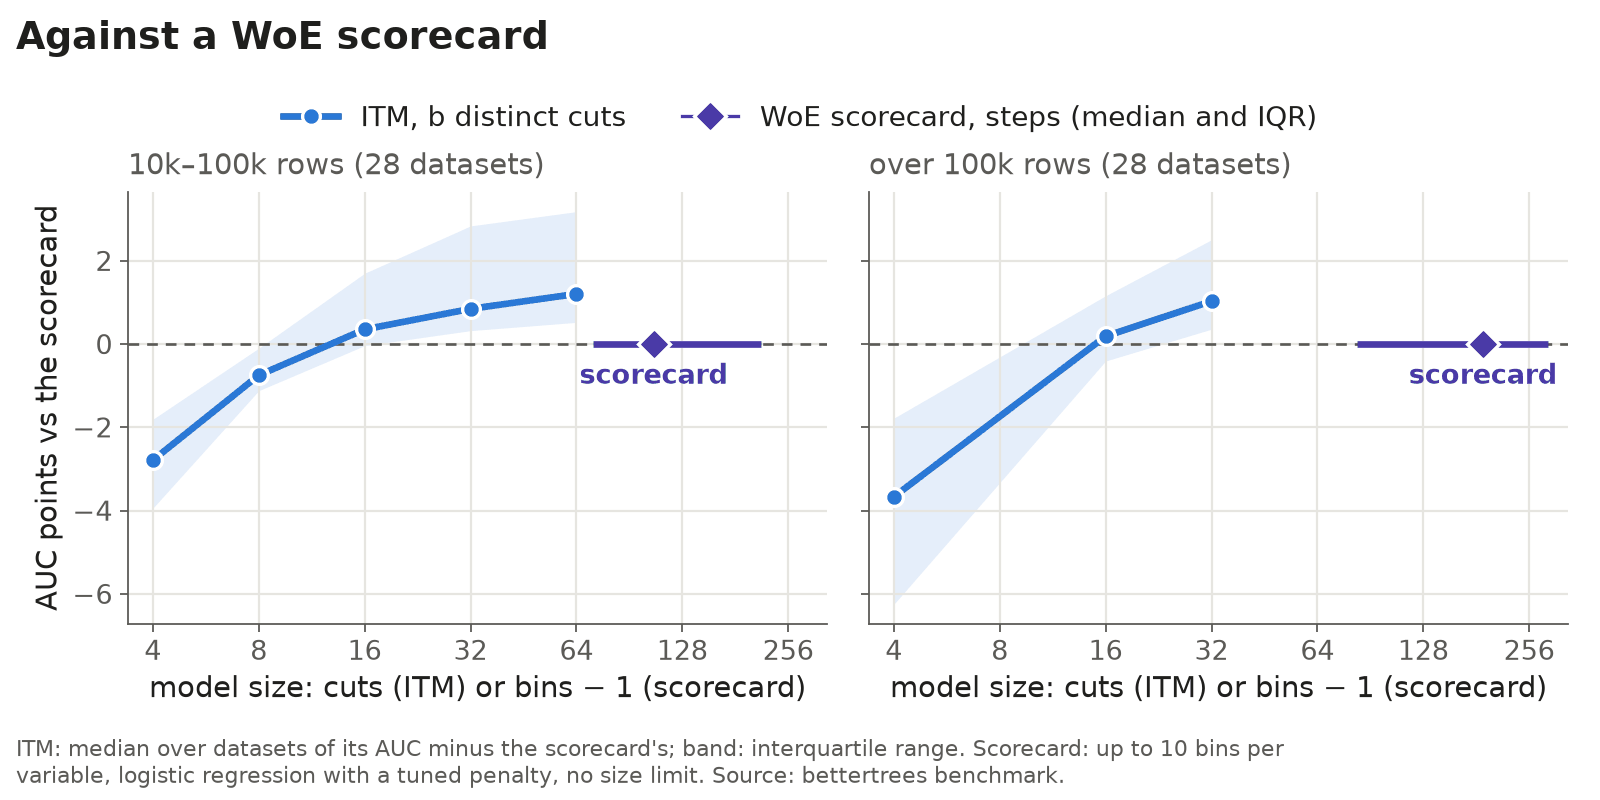
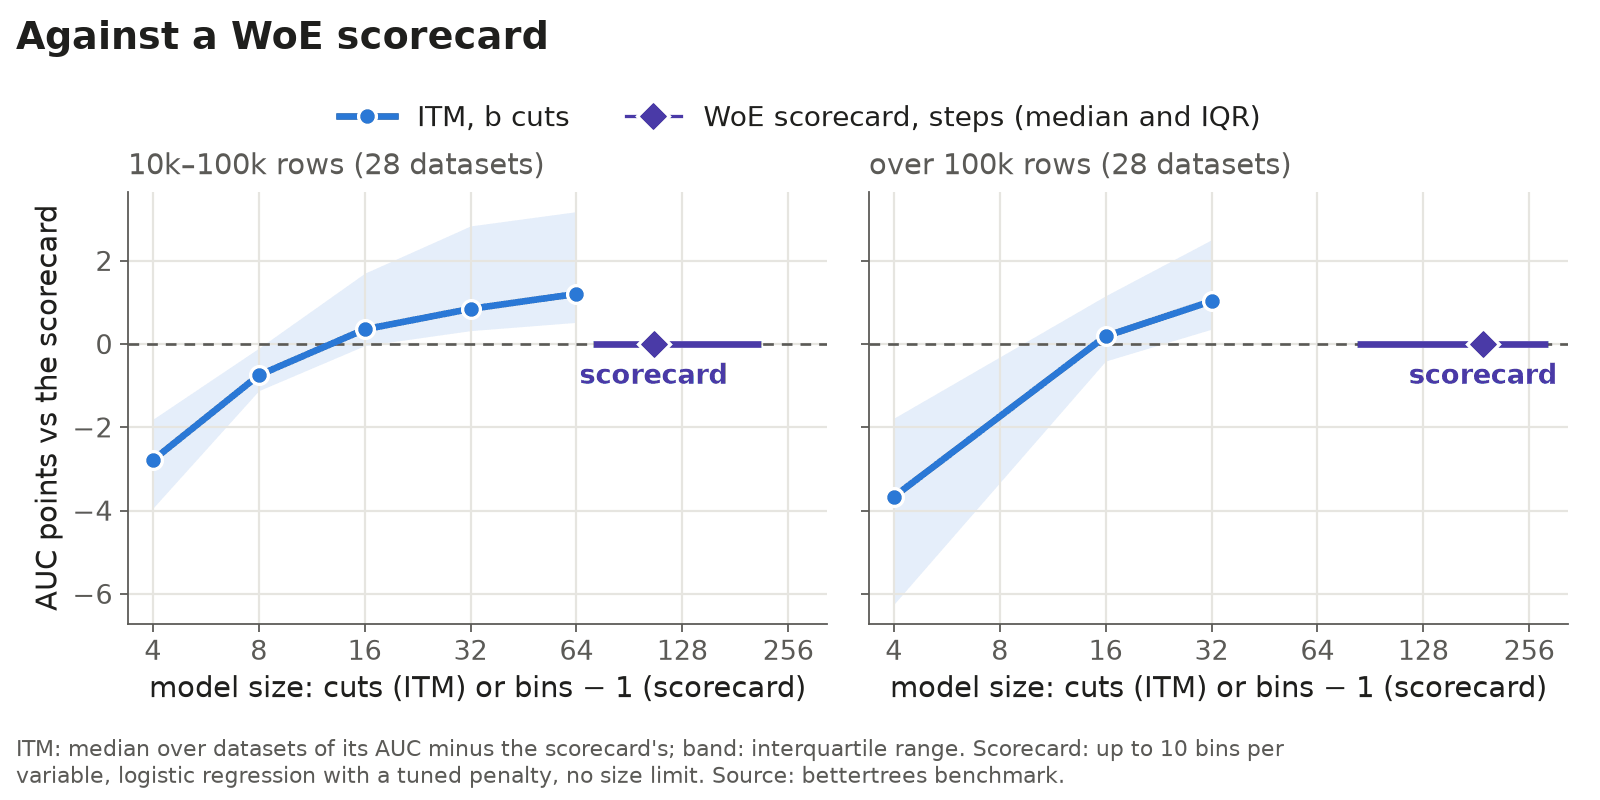
Docs: max_splits counts cuts (internal nodes), not distinct (feature, threshold) pairs
The growth loop performs one split operation per iteration, so an ITM has at most b cuts and at
most b distinct pairs (a pair may repeat). README, CHANGELOG and the docstrings of
InterleavedTreeClassifier and BudgetClassifier now say so; the README figures say "cuts" on the
axis and in the legend (regenerated from the same benchmark data, numbers unchanged).
CompactTreeBooster does count the cuts of its merged model, and keeps its wording.

Changed region(s): [[0.1562, 0.125, 0.8125, 0.1562]]

diff --git a/src/bettertrees/sums/smalltrees.py b/src/bettertrees/sums/smalltrees.py
@@ -385,15 +385,16 @@ class InterleavedTreeClassifier(_AdditiveTrees):
     classification.
 
     ``logit(p) = base + sum_k tree_k(x)``. The trees are small and share one budget of
-    distinct cuts (``max_splits``). At each step the best cut by Newton gain
+    cuts (``max_splits``). At each step the best cut by Newton gain
     ``G^2 / (H + lam)``, in any leaf of any tree or as the root of a new tree, against
     the margin of the other trees, enters the model, and then every leaf is
     re-estimated (one backfitting sweep by default). The number and shape of the trees
     come from the data.
 
     The growth rule comes from FIGS (Tan et al., 2022); re-fitting all the leaves after
-    each cut comes from RGF (Johnson and Zhang, 2014). The budget is counted in
-    distinct cuts.
+    each cut comes from RGF (Johnson and Zhang, 2014). The budget counts cuts (internal
+    nodes, one per split operation); a (feature, threshold) pair may repeat, so the number
+    of distinct pairs is at most the budget.
 
     The constructor's defaults are a full Newton step (``learning_rate=1.0``) and
     ``lam="auto"`` (2 * max_splits), with no cap on the step. The rule the benchmark
@@ -407,7 +408,9 @@ class InterleavedTreeClassifier(_AdditiveTrees):
     Parameters
     ----------
     max_splits : int, default=16
-        Total number of cuts (may stop earlier if no cut has a positive gain).
+        Total number of cuts, i.e. internal nodes over all trees (may stop earlier if no cut
+        has a positive gain). The number of distinct (feature, threshold) pairs is at most
+        ``max_splits``.
     max_trees : int or None, default=None
         Maximum number of trees.
     lam : float or "auto", default="auto"

diff --git a/src/bettertrees/sums/budget.py b/src/bettertrees/sums/budget.py
@@ -34,7 +34,9 @@ class BudgetClassifier(ClassifierMixin, BaseEstimator):
     Parameters
     ----------
     max_splits : int >= 1, default=16
-        The cut budget, in distinct cuts.
+        The cut budget: the model has at most ``max_splits`` cuts (internal nodes, one per
+        split operation). A (feature, threshold) pair may repeat, so the number of distinct
+        pairs is at most the budget.
 
     Attributes
     ----------

diff --git a/README.md b/README.md
@@ -9,7 +9,7 @@ Version 0.1.0 is a release candidate; the first public release is being prepared
 ![Python 3.10+](https://img.shields.io/badge/python-3.10%2B-blue.svg)
 [![CI](https://github.com/rafapras/bettertrees/actions/workflows/ci.yml/badge.svg)](https://github.com/rafapras/bettertrees/actions/workflows/ci.yml)
 
-![AUC against the number of distinct cuts: the ITM above LightGBM and CART of the same size](https://raw.githubusercontent.com/rafapras/bettertrees/main/docs/images/frontier.png)
+![AUC against the number of cuts: the ITM above LightGBM and CART of the same size](https://raw.githubusercontent.com/rafapras/bettertrees/main/docs/images/frontier.png)
 
 ## Why
 
@@ -17,7 +17,7 @@ Where a decision must be explained line by line, as in credit scoring and in the
 sciences, the binding constraint is the size of the model: a scorecard with a few dozen bins, a
 tree with a few dozen nodes. bettertrees asks how much predictive power fits in each cut. Its main
 model, the Interleaved Tree Model (ITM), is a logit sum of a few small trees that share one budget
-of distinct cuts. You set the budget; a fixed rule sets everything else, so there is nothing to
+of cuts. You set the budget; a fixed rule sets everything else, so there is nothing to
 tune per dataset.
 
 ## Install
@@ -204,10 +204,11 @@ small tree with values in log-odds. Growth starts with no trees. At each step ev
 tree, and the root of a new tree, is a candidate; the cut with the largest Newton gain
 `G_l²/(H_l + λ) + G_r²/(H_r + λ) − G²/(H + λ)`, at the margin of the other trees, is added; its
 two leaves take a Newton step `−G/(H + λ)`, and one sweep then refits every leaf of every tree.
-Growth stops at b distinct (feature, threshold) pairs. The growth across trees comes from FIGS
+Growth stops after b cuts (internal nodes, one per split operation); a (feature, threshold)
+pair may repeat, so the model has at most b distinct pairs. The growth across trees comes from FIGS
 (Tan et al.), the refit of all leaves from RGF (Johnson and Zhang); the ITM replaces FIGS's
-mean-residual leaves with Newton steps in log-odds, refits after every cut, counts the budget in
-distinct cuts and replaces tuning with a fixed rule. Features are binned into 32 quantile bins;
+mean-residual leaves with Newton steps in log-odds, refits after every cut, and replaces tuning with a
+fixed rule. Features are binned into 32 quantile bins;
 missing values get a bin of their own and always go left.
 
 ## Limitations

diff --git a/CHANGELOG.md b/CHANGELOG.md
@@ -7,7 +7,7 @@ First public release.
 - `BudgetClassifier(max_splits=b)`: the Interleaved Tree Model with a fixed rule per cut
   budget, no tuning (evaluated from 4 to 64 cuts; applied unvalidated above).
 - `InterleavedTreeClassifier`, the Interleaved Tree Model (ITM): a logit sum of small trees
-  grown together under a budget of distinct cuts, with Newton leaves and a refit of every
+  grown together under a budget of cuts (internal nodes), with Newton leaves and a refit of every
   leaf after each cut. `FIGSClassifier` is an alias.
 - Other sums: `SumOfOptimalTrees` (optimal depth-1 to depth-3 trees), `CompactTreeBooster`,
   `AdditiveTreeBooster`, and `LightGBMRefitClassifier` / `from_lightgbm` (a LightGBM model
